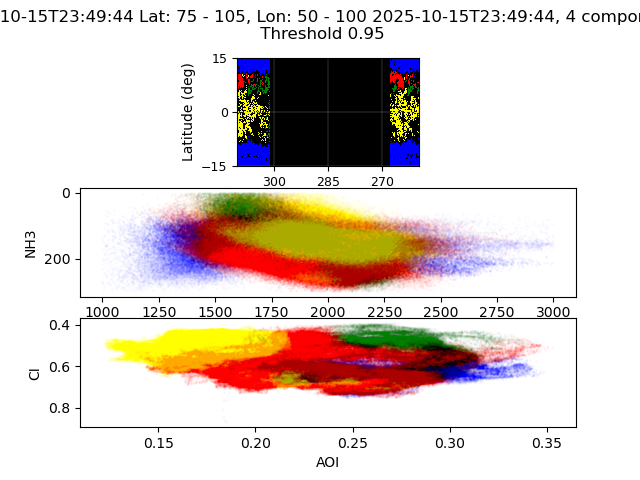
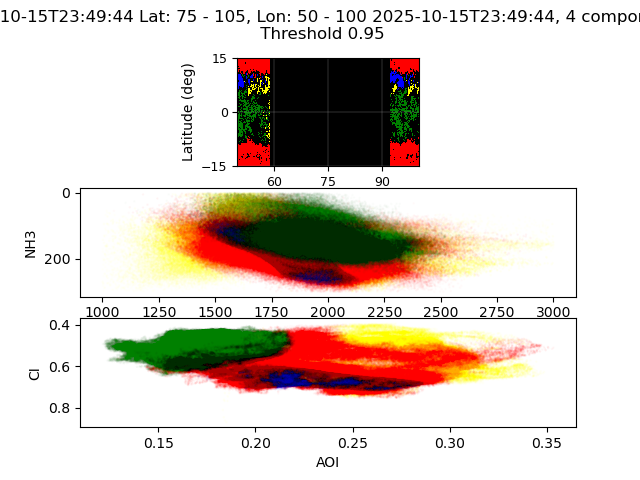
fix longitude mapping

Changed region(s): [[0.1875, 0.125, 0.875, 0.625], [0.1562, 0.6562, 0.8438, 0.8438], [0.5938, 0.125, 0.6562, 0.4062]]

diff --git a/scripts/plots/mapping.py b/scripts/plots/mapping.py
@@ -12,7 +12,8 @@ def create_axis(axs3, LatLims, LonLims, LonSys):
     #fig3,axs3=pl.subplots(dpi=150, facecolor="white")
     axs3.grid(linewidth=0.2)
     axs3.ylim=[LatLims[0] ,LatLims[1]]
-    axs3.xlim=[360-LonLims[0],360-LonLims[1]]
+    #axs3.xlim=[360-LonLims[0],360-LonLims[1]]
+    axs3.xlim=[LonLims[0],LonLims[1]]
     axs3.set_xticks(np.linspace(450,0,31), minor=False)
     xticklabels=np.array(np.mod(np.linspace(450,0,31),360))
     axs3.set_xticklabels(xticklabels.astype(int))
@@ -40,7 +41,7 @@ def plot_cluster_patch(patch, LatLims, LonLims, cmap, axis, v_min, v_max, title,
     
 
     show=axis.imshow(patch,  origin='upper', interpolation = 'nearest', cmap = cmap, norm = norm,  
-               extent=[360-LonLims[0],360-LonLims[1],90-LatLims[1],
+               extent=[LonLims[0],LonLims[1],90-LatLims[1],
                        90-LatLims[0]],
                        aspect="equal")
     #axis.set_title(title, pad = 15)
@@ -77,7 +78,7 @@ def plot_patch(patch, LatLims, LonLims, cmap, axis, v_min, v_max, title, cm_num,
     np.nan_to_num(patch, copy=False, nan=-1.0, posinf=0.0, neginf=0.0)
     tx=np.linspace(vn,vx,5 ,endpoint=True)
     
-
+   
     show=axis.imshow(patch,  origin='upper', cmap = cmap, vmin=vn,vmax=vx,  
                extent=[LonLims[0],LonLims[1],90-LatLims[1],
                        90-LatLims[0]],
